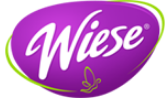
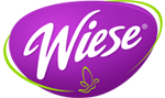
v.0.1

diff --git a/src/Constants/index.jsx b/src/Constants/index.jsx
@@ -20,50 +20,50 @@ export const heroImg = [
   {
     id: "1",
     src: wiese,
-    width: 70,
-    height: 41,
+    width: 160,
+    height: 98,
     alt: "wiese logo",
-    class: "md:w-[5rem] lg:w-[5.5rem] xl:w-[6rem]",
+    class: "w-[5rem] h-[3rem]",
   },
   {
     id: "2",
     src: elite,
-    width: 70,
-    height: 41,
+    width: 161,
+    height: 95,
     alt: "elite logo",
-    class: "md:w-[5rem] lg:w-[5.5rem] xl:w-[6rem]",
+    class: "w-[5rem] h-[3rem]",
   },
   {
     id: "3",
     src: purell,
-    width: 70,
-    height: 32,
+    width: 208,
+    height: 98,
     alt: "purell logo",
-    class: "md:w-[5rem] lg:w-[5.5rem] xl:w-[6rem]",
+    class: "w-[5rem] h-[2rem]",
   },
   {
     id: "4",
     src: kimberly,
-    width: 70,
-    height: 29,
+    width: 240,
+    height: 89,
     alt: "wiese logo",
-    class: "md:w-[5rem] lg:w-[5.5rem] xl:w-[6rem]",
+    class: "w-[6rem] h-[2rem]",
   },
   {
     id: "5",
     src: eckos,
-    width: 70,
-    height: 21,
+    width: 420,
+    height: 125,
     alt: "wiese logo",
-    class: "hidden lg:flex lg:w-[5.5rem] xl:w-[6rem]",
+    class: "w-[4rem] h-[3rem] hidden lg:flex",
   },
   {
     id: "6",
     src: oval,
-    width: 70,
-    height: 41,
+    width: 228,
+    height: 111,
     alt: "oval logo",
-    class: "hidden xl:flex xl:w-[6rem]",
+    class: "w-[4rem] h-[3rem] hidden xl:flex",
   },
 ];
 

diff --git a/src/Components/HeroImg.jsx b/src/Components/HeroImg.jsx
@@ -11,6 +11,8 @@ const HeroImg = () => {
           key={i.id}
           src={i.src}
           alt={i.alt}
+          width={i.width}
+          height={i.height}
           className={i.class}
         />
       ))}
